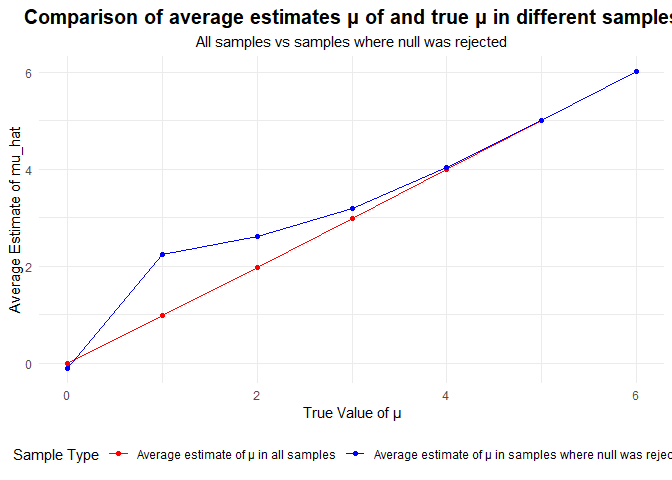
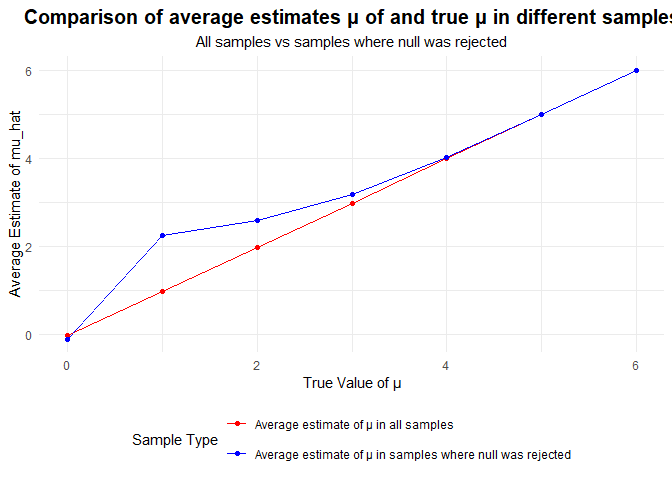
Problem 3

diff --git a/p8105_hw5_bz2570.md b/p8105_hw5_bz2570.md
@@ -50,7 +50,7 @@ bday_sim_results |>
   geom_point() +
   geom_line() +
   labs(
-    title = "Probability of Shared Birthday by Group Size",
+    title = "Probability of Shared Birthday by Group Size", 
     x = "Group Size",
     y = "Probability"
   ) +
@@ -59,6 +59,14 @@ bday_sim_results |>
 ```
 
 ![](p8105_hw5_bz2570_files/figure-gfm/unnamed-chunk-2-1.png)<!-- -->
+
+#### Comment on results:
+
+The probability of shared birthday grows obviously with group size,
+especially between group size of 10 and 35. For a group size of 23, the
+probability of at least two people sharing a birthday exceeds 50%. By
+group size 35, the probability exceeds 90%, and reaches near 1.00 (0.97)
+by group size 50.
 
 ## Problem 2
 
@@ -147,6 +155,13 @@ print(power_plot)
 
 ##### Describe the association between effect size and power
 
+In this one-sample t-test, there is a strong positive association
+between effect size (true μ) and statistical power. The plot shows a
+sharp increase in power as μ rises from 1 to 4: starting at 0.19 when μ
+= 1, increasing to 0.547 at μ = 2, 0.881 at μ = 3, and reaching 0.987 at
+μ = 4. Beyond μ = 4, the curve flattens significantly, with power
+approaching 1 by μ = 6.
+
 ``` r
 # Make two plot showing the average estimate of μ and the true value of μ / the average estimate of μ only in samples for which the null was rejected and the true value of μ
 comparison_plot <- 
@@ -169,7 +184,8 @@ comparison_plot <-
   ) +
   theme(plot.title = element_text(hjust = 0.5, face = "bold", size = 15),
         plot.subtitle = element_text(hjust = 0.5),
-        legend.position = "bottom")
+        legend.position = "bottom") +
+  guides(color = guide_legend(nrow = 2)) 
   
 print(comparison_plot)
 ```
@@ -177,6 +193,17 @@ print(comparison_plot)
 ![](p8105_hw5_bz2570_files/figure-gfm/unnamed-chunk-8-1.png)<!-- -->
 
 ##### Is the sample average of mu_hat across tests for which the null is rejected approximately equal to the true value of μ? Why or why not?
+
+No, the sample average of mu_hat across tests for which the null is
+rejected is not completely equal to the true value of μ, particularly
+for smaller effect sizes. This discrepancy arises from selection bias.
+When we condition on rejecting the null hypothesis, we select samples
+where mu_hat is extreme enough to be statistically significant. For μ =
+1, the average mu_hat in rejected samples is 2.251 compared to the true
+value of 1 (bias = 1.251). As μ increases to 6, the bias decreases to
+0.014. This occurs because with small effects, only the unusually large
+estimates are significant enough to reject the null, while with large
+effects, almost every sample shows a significant result.
 
 ## Problem 3
 
@@ -193,13 +220,22 @@ homicide_data = read_csv("data/homicide-data.csv")
     ## ℹ Use `spec()` to retrieve the full column specification for this data.
     ## ℹ Specify the column types or set `show_col_types = FALSE` to quiet this message.
 
+#### Describe the raw data.
+
+The raw dataset contains 52179 homicide records and 12 variables. The
+data spans from 56920-01-27 to 553688-08-31. Key variables include
+victim demographics like *name, age, race, sex*, geographic information
+like *city, state, lat, lon*, and *disposition* (which indicates whether
+cases were closed by arrest, closed without arrest, or remain open).
+
+#### Create city_state variable and summarize
+
 ``` r
-# Create city_state variable and summarize within cities to obtain the total number of homicides and the number of unsolved homicides
-homicide_summary <- 
-  homicide_data |> 
+city_homicides <- 
+  homicide_data |>
   janitor::clean_names() |> 
   mutate(
-    city_state = str_c(city, ", ", state) 
+    city_state = str_c(city, ", ", state)       # Create city_state variable
   ) |> 
   group_by(city_state) |> 
   summarize(
@@ -207,7 +243,7 @@ homicide_summary <-
     unsolved_homicides = sum(disposition %in% c("Closed without arrest", "Open/No arrest"))  # Number of unsolved homicides
   )
 
-knitr::kable(homicide_summary)
+knitr::kable(city_homicides)
 ```
 
 | city_state         | total_homicides | unsolved_homicides |
@@ -263,3 +299,152 @@ knitr::kable(homicide_summary)
 | Tulsa, AL          |               1 |                  0 |
 | Tulsa, OK          |             583 |                193 |
 | Washington, DC     |            1345 |                589 |
+
+**For the city of Baltimore, MD**
+
+``` r
+baltimore_df <- 
+  city_homicides |>  
+  filter(city_state == "Baltimore, MD")
+
+# Use prop.test function to estimate the proportion of homicides that are unsolved and save the output
+baltimore_prop_test <- prop.test(
+  x = baltimore_df$unsolved_homicides,
+  n = baltimore_df$total_homicides
+)
+
+# Display the estimated proportion and confidence intervals from the resulting tidy dataframe
+tidy_baltimore_test <- broom::tidy(baltimore_prop_test)
+tidy_baltimore_test |> 
+  select(estimated_proportion = estimate, 
+         CI_lower = conf.low,
+         CI_upper = conf.high) |> 
+  knitr::kable(digits = 4)
+```
+
+| estimated_proportion | CI_lower | CI_upper |
+|---------------------:|---------:|---------:|
+|               0.6456 |   0.6276 |   0.6632 |
+
+The estimated proportion of unsolved homicides in Baltimore, MD is r
+round(tidy_baltimore_test$estimate, 4), with a 95% confidence interval of (r round(tidy_baltimore_test$conf.low,
+4), r round(tidy_baltimore_test\$conf.high, 4)).
+
+**For all cities**
+
+``` r
+# Run prop.test for each of the cities
+city_prop_tests <- 
+  city_homicides |>  
+  mutate(
+    prop_test = map2(unsolved_homicides, total_homicides, 
+                    ~prop.test(x = .x, n = .y)),
+    tidy_results = map(prop_test, broom::tidy)
+  ) |> 
+  unnest(tidy_results) |> 
+  select(
+    city_state, 
+    total_homicides,
+    unsolved_homicides,
+    proportion_unsolved = estimate, 
+    CI_lower = conf.low,
+    CI_upper = conf.high
+  )
+```
+
+    ## Warning: There was 1 warning in `mutate()`.
+    ## ℹ In argument: `prop_test = map2(...)`.
+    ## Caused by warning in `prop.test()`:
+    ## ! Chi-squared approximation may be incorrect
+
+``` r
+knitr::kable(city_prop_tests, digits = 4)
+```
+
+| city_state | total_homicides | unsolved_homicides | proportion_unsolved | CI_lower | CI_upper |
+|:---|---:|---:|---:|---:|---:|
+| Albuquerque, NM | 378 | 146 | 0.3862 | 0.3373 | 0.4376 |
+| Atlanta, GA | 973 | 373 | 0.3834 | 0.3528 | 0.4148 |
+| Baltimore, MD | 2827 | 1825 | 0.6456 | 0.6276 | 0.6632 |
+| Baton Rouge, LA | 424 | 196 | 0.4623 | 0.4142 | 0.5110 |
+| Birmingham, AL | 800 | 347 | 0.4338 | 0.3992 | 0.4690 |
+| Boston, MA | 614 | 310 | 0.5049 | 0.4646 | 0.5451 |
+| Buffalo, NY | 521 | 319 | 0.6123 | 0.5688 | 0.6541 |
+| Charlotte, NC | 687 | 206 | 0.2999 | 0.2661 | 0.3359 |
+| Chicago, IL | 5535 | 4073 | 0.7359 | 0.7240 | 0.7474 |
+| Cincinnati, OH | 694 | 309 | 0.4452 | 0.4080 | 0.4831 |
+| Columbus, OH | 1084 | 575 | 0.5304 | 0.5002 | 0.5605 |
+| Dallas, TX | 1567 | 754 | 0.4812 | 0.4562 | 0.5062 |
+| Denver, CO | 312 | 169 | 0.5417 | 0.4846 | 0.5977 |
+| Detroit, MI | 2519 | 1482 | 0.5883 | 0.5688 | 0.6076 |
+| Durham, NC | 276 | 101 | 0.3659 | 0.3096 | 0.4261 |
+| Fort Worth, TX | 549 | 255 | 0.4645 | 0.4223 | 0.5072 |
+| Fresno, CA | 487 | 169 | 0.3470 | 0.3051 | 0.3914 |
+| Houston, TX | 2942 | 1493 | 0.5075 | 0.4892 | 0.5257 |
+| Indianapolis, IN | 1322 | 594 | 0.4493 | 0.4223 | 0.4766 |
+| Jacksonville, FL | 1168 | 597 | 0.5111 | 0.4820 | 0.5401 |
+| Kansas City, MO | 1190 | 486 | 0.4084 | 0.3804 | 0.4370 |
+| Las Vegas, NV | 1381 | 572 | 0.4142 | 0.3881 | 0.4407 |
+| Long Beach, CA | 378 | 156 | 0.4127 | 0.3629 | 0.4643 |
+| Los Angeles, CA | 2257 | 1106 | 0.4900 | 0.4692 | 0.5109 |
+| Louisville, KY | 576 | 261 | 0.4531 | 0.4121 | 0.4948 |
+| Memphis, TN | 1514 | 483 | 0.3190 | 0.2957 | 0.3433 |
+| Miami, FL | 744 | 450 | 0.6048 | 0.5686 | 0.6400 |
+| Milwaukee, wI | 1115 | 403 | 0.3614 | 0.3333 | 0.3905 |
+| Minneapolis, MN | 366 | 187 | 0.5109 | 0.4585 | 0.5631 |
+| Nashville, TN | 767 | 278 | 0.3625 | 0.3286 | 0.3977 |
+| New Orleans, LA | 1434 | 930 | 0.6485 | 0.6231 | 0.6732 |
+| New York, NY | 627 | 243 | 0.3876 | 0.3494 | 0.4271 |
+| Oakland, CA | 947 | 508 | 0.5364 | 0.5041 | 0.5685 |
+| Oklahoma City, OK | 672 | 326 | 0.4851 | 0.4468 | 0.5236 |
+| Omaha, NE | 409 | 169 | 0.4132 | 0.3653 | 0.4627 |
+| Philadelphia, PA | 3037 | 1360 | 0.4478 | 0.4300 | 0.4657 |
+| Phoenix, AZ | 914 | 504 | 0.5514 | 0.5185 | 0.5839 |
+| Pittsburgh, PA | 631 | 337 | 0.5341 | 0.4943 | 0.5735 |
+| Richmond, VA | 429 | 113 | 0.2634 | 0.2229 | 0.3083 |
+| Sacramento, CA | 376 | 139 | 0.3697 | 0.3212 | 0.4209 |
+| San Antonio, TX | 833 | 357 | 0.4286 | 0.3948 | 0.4630 |
+| San Bernardino, CA | 275 | 170 | 0.6182 | 0.5577 | 0.6753 |
+| San Diego, CA | 461 | 175 | 0.3796 | 0.3354 | 0.4258 |
+| San Francisco, CA | 663 | 336 | 0.5068 | 0.4681 | 0.5454 |
+| Savannah, GA | 246 | 115 | 0.4675 | 0.4041 | 0.5319 |
+| St. Louis, MO | 1677 | 905 | 0.5397 | 0.5154 | 0.5637 |
+| Stockton, CA | 444 | 266 | 0.5991 | 0.5517 | 0.6447 |
+| Tampa, FL | 208 | 95 | 0.4567 | 0.3881 | 0.5270 |
+| Tulsa, AL | 1 | 0 | 0.0000 | 0.0000 | 0.9454 |
+| Tulsa, OK | 583 | 193 | 0.3310 | 0.2932 | 0.3711 |
+| Washington, DC | 1345 | 589 | 0.4379 | 0.4112 | 0.4649 |
+
+Across all cities, the proportion of unsolved homicides ranges from r
+round(min(city_prop_tests$proportion_unsolved), 4) to r round(max(city_prop_tests$proportion_unsolved),
+4), with 95% confidence intervals shown in the table above.
+
+``` r
+# Create a plot that shows the estimates and CIs for each city
+city_plot <- 
+  city_prop_tests |>
+  # Organize cities according to the proportion of unsolved homicides
+  mutate(city_state = fct_reorder(city_state, proportion_unsolved)) |> 
+  ggplot(aes(x = proportion_unsolved, y = city_state)) +
+  # Add points for the estimates
+  geom_point(color = "red", size = 1) +
+  # Add error bars based on the upper and lower limits
+  geom_errorbar(aes(xmin = CI_lower, xmax = CI_upper), 
+                width = 0.3, color = "blue", alpha = 0.7) +
+  labs(
+    title = "Proportion of Unsolved Homicides by City",
+    x = "Proportion of Unsolved Homicides",
+    y = "City"
+  ) +
+  theme_minimal() +
+  theme(plot.title = element_text(hjust = 0.5, face = "bold", size = 12),
+        plot.subtitle = element_text(hjust = 0.5))
+
+print(city_plot)
+```
+
+![](p8105_hw5_bz2570_files/figure-gfm/unnamed-chunk-13-1.png)<!-- -->
+
+This plot shows the proportion of unsolved homicides by city. Each city
+has a red dot indicating the proportion with error bars, depicting the
+variation in unsolved homicide proportions across various cities.
